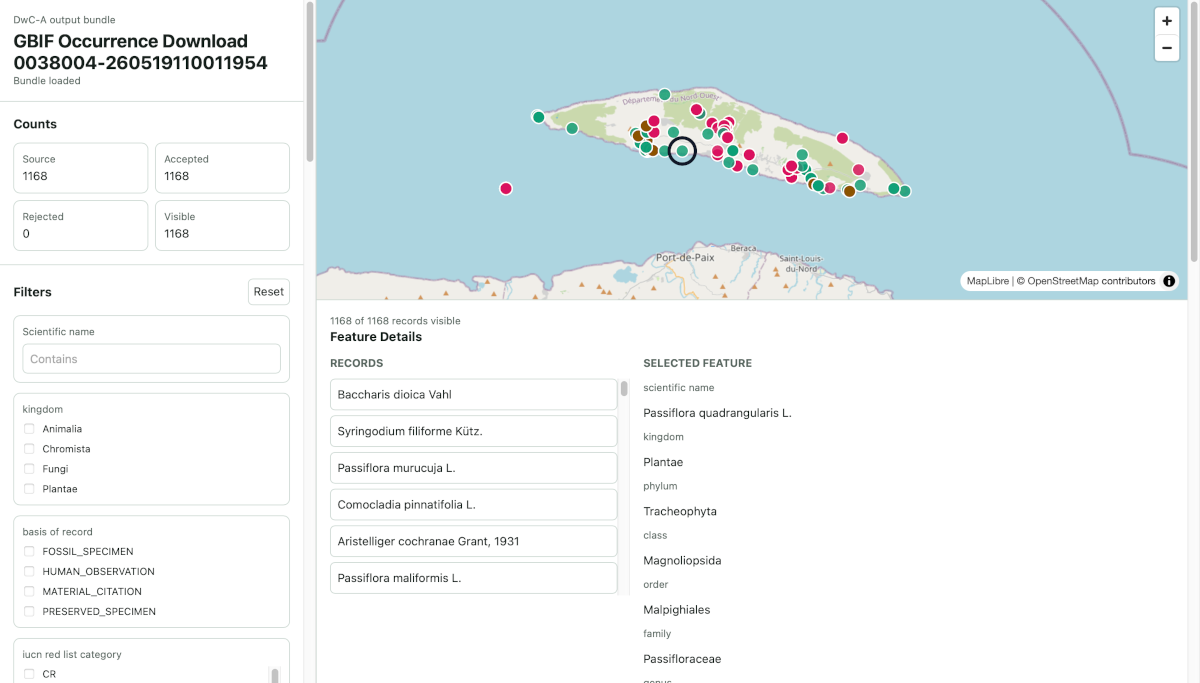
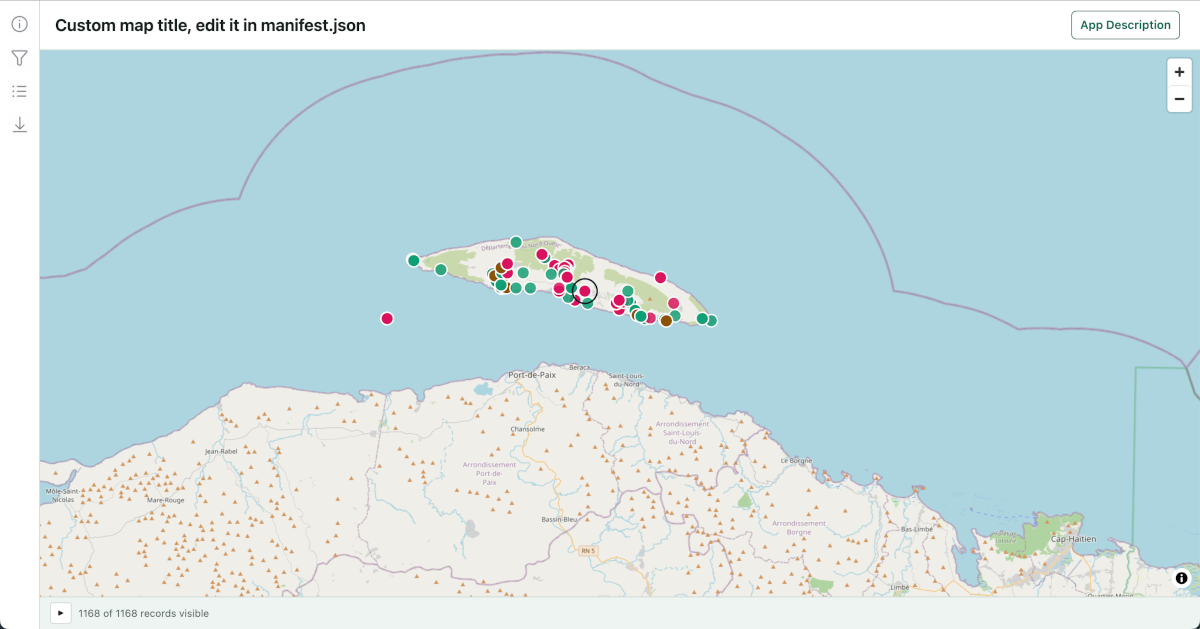
chore(release): prepare v0.1.2
- update package, citation, documentation, bundle schema and viewer contract versions to 0.1.2
- regenerate the demo bundle and GeoPackage with current viewer assets and metadata
- synchronize viewer contract fixtures with the default app description
- refresh viewer screenshots and remove the obsolete prototype-release note

diff --git a/demo/output/app.js b/demo/output/app.js
@@ -1,8 +1,8 @@
 (function () {
   "use strict";
 
-  const SUPPORTED_BUNDLE_SCHEMA_VERSION = "0.1.0";
-  const SUPPORTED_VIEWER_CONTRACT_VERSION = "0.1.0";
+  const SUPPORTED_BUNDLE_SCHEMA_VERSION = "0.1.2";
+  const SUPPORTED_VIEWER_CONTRACT_VERSION = "0.1.2";
   const SOURCE_METADATA_PATH = "metadata/source.json";
   const PROCESSING_METADATA_PATH = "metadata/processing.json";
   const ARTIFACT_DISPLAY_ORDER = [

diff --git a/viewer/app.js b/viewer/app.js
@@ -1,8 +1,8 @@
 (function () {
   "use strict";
 
-  const SUPPORTED_BUNDLE_SCHEMA_VERSION = "0.1.0";
-  const SUPPORTED_VIEWER_CONTRACT_VERSION = "0.1.0";
+  const SUPPORTED_BUNDLE_SCHEMA_VERSION = "0.1.2";
+  const SUPPORTED_VIEWER_CONTRACT_VERSION = "0.1.2";
   const SOURCE_METADATA_PATH = "metadata/source.json";
   const PROCESSING_METADATA_PATH = "metadata/processing.json";
   const ARTIFACT_DISPLAY_ORDER = [

diff --git a/src/dwca_cloud_geospatial/bundle.py b/src/dwca_cloud_geospatial/bundle.py
@@ -35,14 +35,15 @@ from dwca_cloud_geospatial.normalization import (
 from dwca_cloud_geospatial.occurrence import OccurrenceReadResult, OccurrenceSourceRecord
 
 
-BUNDLE_SCHEMA_VERSION = "0.1.0"
-VIEWER_CONTRACT_VERSION = "0.1.0"
-OCCURRENCE_SCHEMA_VERSION = "0.1.0"
+BUNDLE_SCHEMA_VERSION = "0.1.2"
+VIEWER_CONTRACT_VERSION = "0.1.2"
+OCCURRENCE_SCHEMA_VERSION = "0.1.2"
 DEFAULT_VIEWER_MAP_TITLE = "Custom map title, edit it in manifest.json"
 DEFAULT_VIEWER_APP_DESCRIPTION = (
     "<center><h2>About this map</h2></center><p>Publisher-authored HTML.</p>"
     "<p>Supported HTML Tags: p, b, i, h2, h3, h4, a, img, br, ol, ul, li, "
     "table, tr, td, iframe, center, small</p>"
+    "<iframe src=\"https://www.youtube.com/embed/ixLtxP824Og?si=fe90FtrDhUN4fvbM\" title=\"YouTube video player\" allow=\"accelerometer; autoplay; clipboard-write; encrypted-media; gyroscope; picture-in-picture; web-share\" width=\"560\" height=\"315\" allowfullscreen=""></iframe>"
 )
 DEFAULT_VIEWER_VISIBILITY: dict[str, Any] = {
     "panel-info": {

diff --git a/docs/output_format.md b/docs/output_format.md
@@ -77,14 +77,14 @@ Initial MVP versions:
 
 ```json
 {
-  "bundle_schema_version": "0.1.0",
-  "viewer_contract_version": "0.1.0",
-  "occurrence_schema_version": "0.1.0"
+  "bundle_schema_version": "0.1.2",
+  "viewer_contract_version": "0.1.2",
+  "occurrence_schema_version": "0.1.2"
 }
 ```
 
-In `v0.1.0`, these versions identify the initial prototype schemas and
-viewer contract. Breaking changes after `v0.1.0` require a new schema or
+In `v0.1.2`, these versions identify the initial prototype schemas and
+viewer contract. Breaking changes after `v0.1.2` require a new schema or
 contract version and migration notes.
 
 ## Canonical Occurrence Schema And Projections
@@ -234,15 +234,15 @@ Example with FlatGeobuf and GeoParquet selected, and rejected records present:
 
 ```json
 {
-  "bundle_schema_version": "0.1.0",
-  "viewer_contract_version": "0.1.0",
-  "occurrence_schema_version": "0.1.0",
+  "bundle_schema_version": "0.1.2",
+  "viewer_contract_version": "0.1.2",
+  "occurrence_schema_version": "0.1.2",
   "id": "dwca-geo-20260604-001",
   "title": "Example occurrence dataset",
   "created_at": "2026-06-04T12:00:00Z",
   "generator": {
     "name": "dwca-cloud-geospatial",
-    "version": "0.1.0",
+    "version": "0.1.2",
     "commit": null
   },
   "source": {

diff --git a/README.md b/README.md
@@ -32,6 +32,7 @@ metadata, outputs and FlatGeobuf occurrence points from static files.
 
 ![DwC-A Cloud Geospatial static viewer](docs/assets/viewer-screenshot.png)
 
+
 ## Project Status
 
 This repository is at the initial prototype stage. The first goal is to prove a simple, reproducible workflow:
@@ -41,10 +42,6 @@ This repository is at the initial prototype stage. The first goal is to prove a 
 3. Convert the data into cloud-friendly geospatial formats.
 4. Publish the generated files as static assets.
 5. Explore the result in a browser-based MapLibre viewer.
-
-`v0.1.0` is an initial prototype release. APIs, file layouts and
-command-line interfaces are usable for evaluation and demo workflows, but may
-change as the converter, bundle contract and viewer mature.
 
 Checklist DwC-A archives with `Taxon` cores can be inspected, but the MVP
 conversion workflow targets occurrence archives that declare coordinate terms.

diff --git a/CHANGELOG.md b/CHANGELOG.md
@@ -2,7 +2,7 @@
 
 All notable changes to this project are documented here.
 
-## v0.1.0 - 2026-06-21
+## v0.1.2 - 2026-07-14
 
 Initial public prototype release of the DwC-A to cloud-optimized geospatial
 conversion workflow.